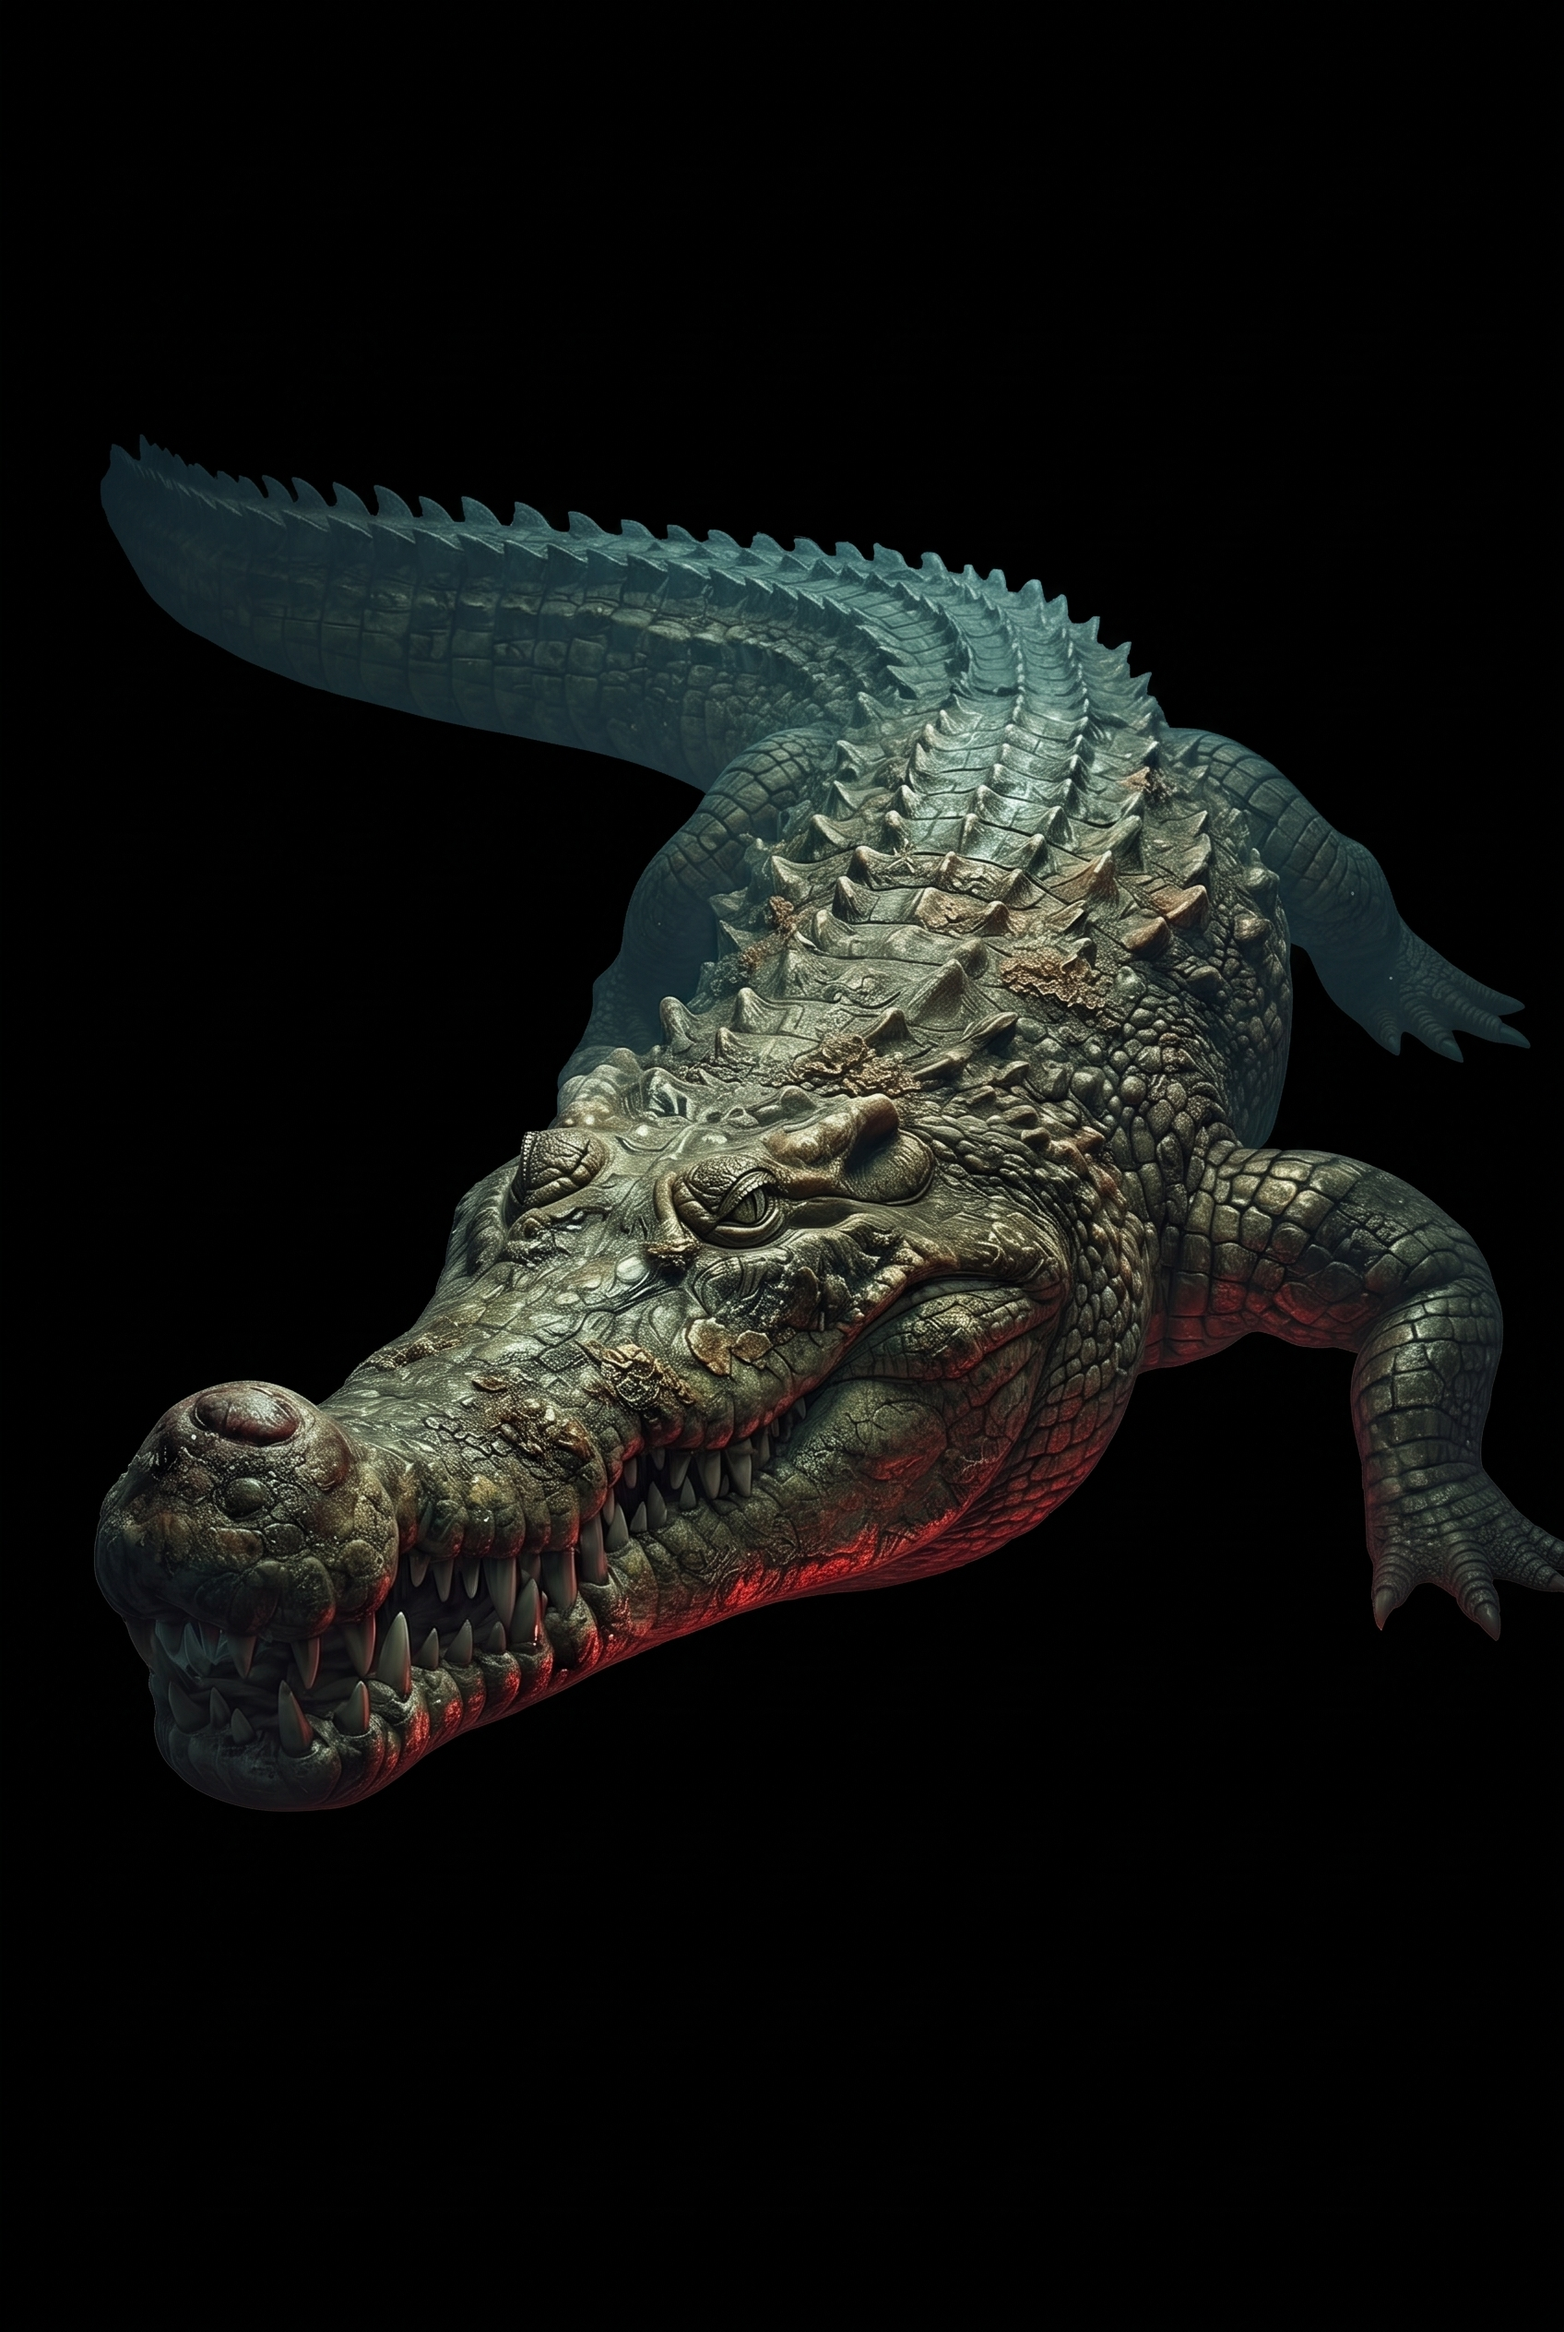
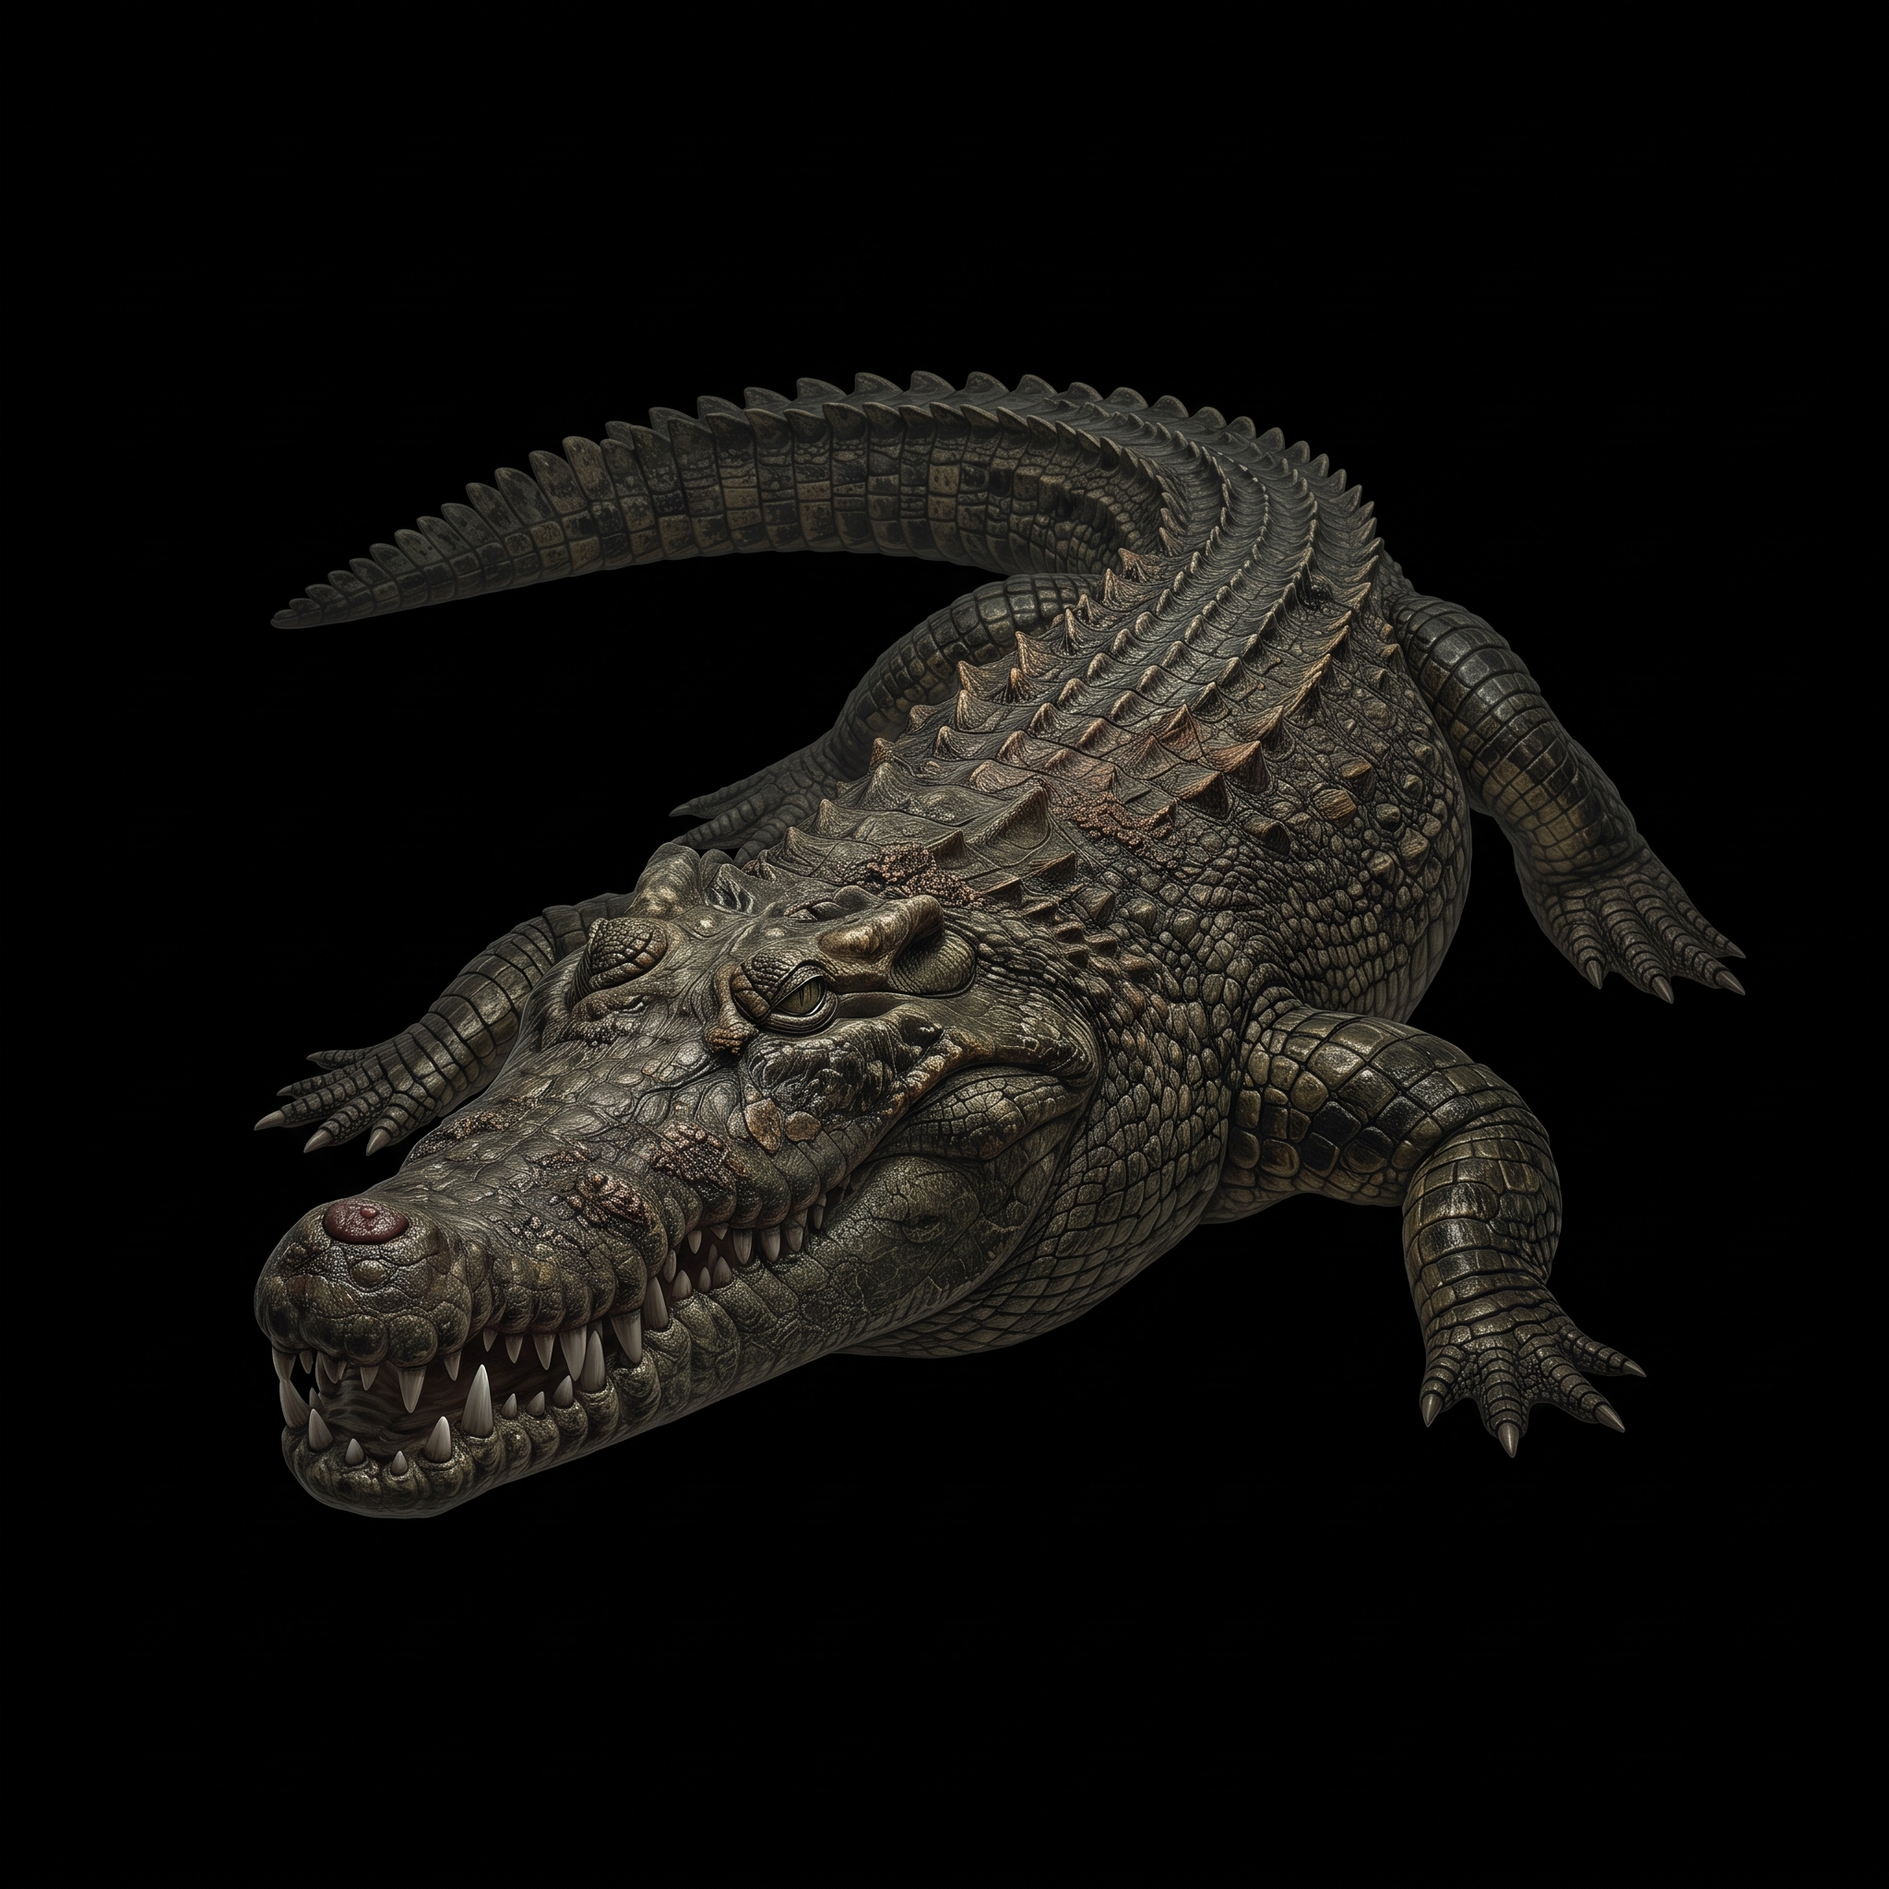
feat: coccodrillo marino nuovo (davanti e da dietro) generato con Gemini; i vecchi restano in art-inbox con _vecchio_

Changed region(s): [[0.0625, 0.1875, 1.0, 0.8125]]

diff --git a/docs/PROGRESS.md b/docs/PROGRESS.md
@@ -27,7 +27,7 @@
 4. Usa Lotta con mosse di tipi diversi, poi Doma: guarda gli effetti e la conchiglia dipinta.
 5. Dimmi se va fluida (60 fps) e se il testo si legge bene.
 
-**Dopo la tua prova (v0.8.1):** tua bestia più grande e non coperta, schivata più difficile, fuga in base alla forza, pinne tagliate sfumate. Da rigenerare con Gemini (quando Claude in Chrome è collegato): coccodrillo marino (fa schifo), coccodrillo albino davanti su fondo nero pulito, sfondi propri di Delta e tana, manta e pesce palla da dietro.
+**Dopo la tua prova (v0.8.1):** tua bestia più grande e non coperta, schivata più difficile, fuga in base alla forza, pinne tagliate sfumate. Coccodrillo marino rigenerato (davanti e da dietro). Da rigenerare (le fa il proprietario): coccodrillo albino davanti su fondo nero pulito, sfondi propri di Delta e tana, manta e pesce palla da dietro.
 
 **Prossima sessione:** se la battaglia ti piace, si continua con la storia (capitolo 3, la Barriera Rossa); restano in lista "Potenzia" con i doppioni e il ribilanciamento per zone.
 

diff --git a/CHANGELOG.md b/CHANGELOG.md
@@ -8,6 +8,7 @@ Cosa cambia per chi gioca, versione per versione. Ogni versione ha un'etichetta 
 - **Schivare è più difficile.**
 - **Fuggire dipende dalla bestia:** facile da una comune del tuo livello, difficile da una più forte o rara, quasi impossibile da un leggendario (ma ogni tentativo aiuta un po').
 - Le pinne che uscivano dall'immagine (squalo albino leggendario, coda del coccodrillo albino) ora sfumano invece di essere tagliate.
+- **Coccodrillo marino nuovo** (davanti e da dietro), rigenerato con Gemini.
 
 ## v0.8.0 — Battaglia più bella (1 ottobre 2026)
 
